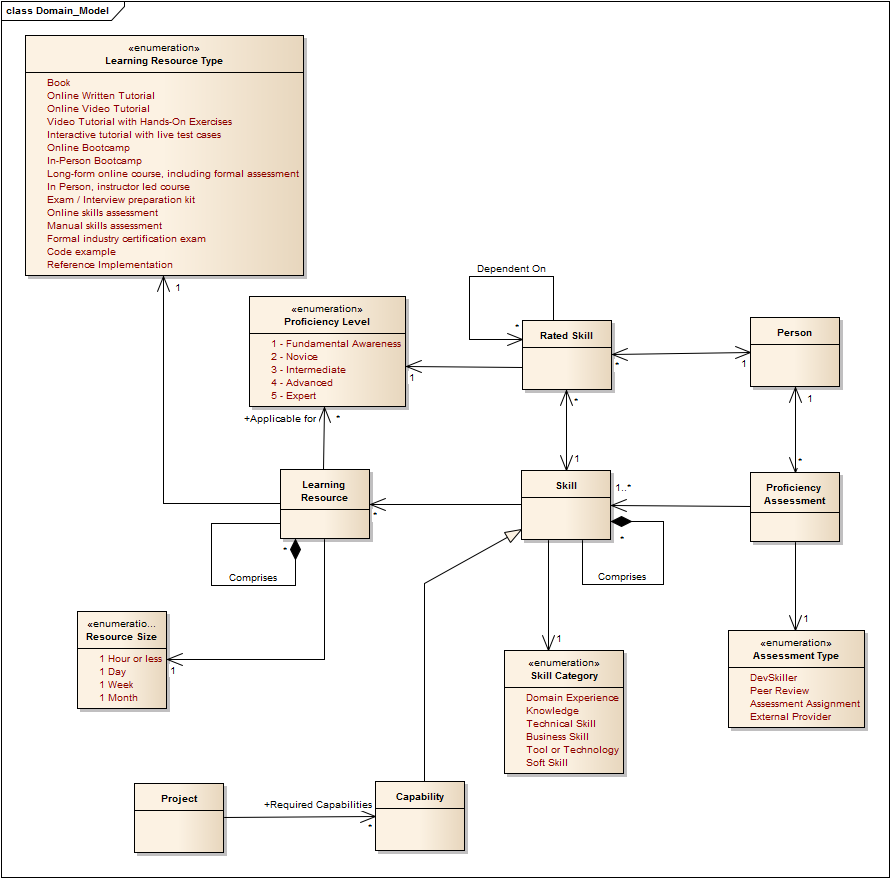
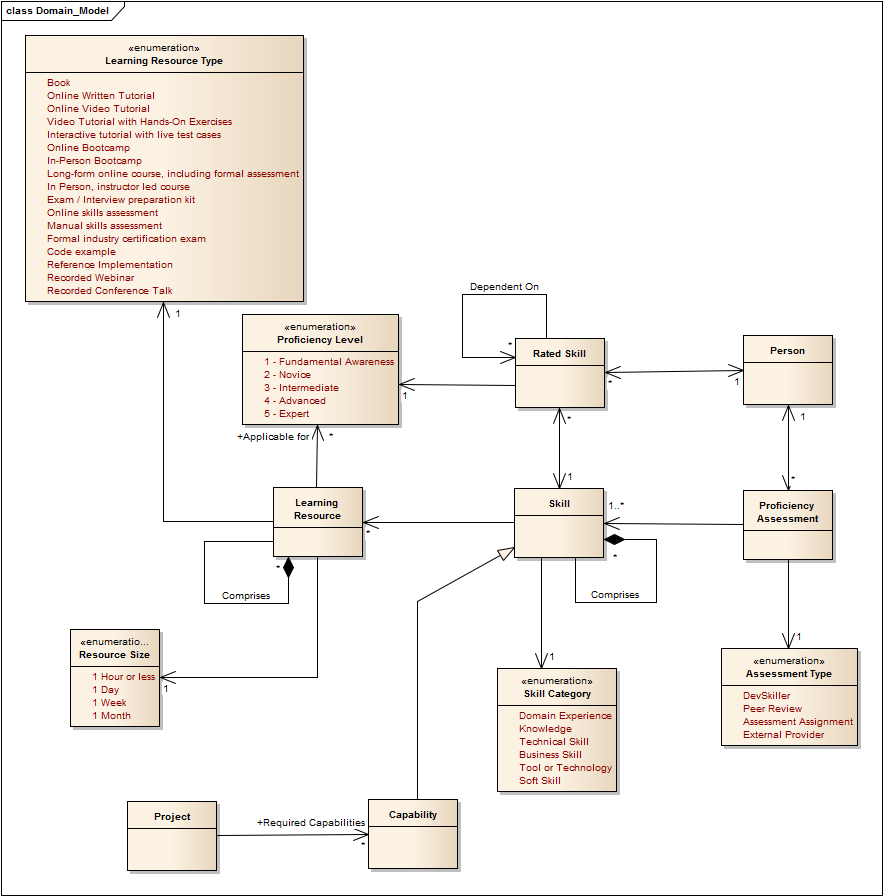
Adding some additional resource types

diff --git a/docs/searchindex.js b/docs/searchindex.js
@@ -1,1 +1,1 @@
-Search.setIndex({docnames:["index","learning_paths/analysis/uml","learning_paths/development/aem","learning_paths/development/html_css_js","learning_paths/index","learning_resources/bootcamps","learning_resources/content_providers","learning_resources/index","learning_resources/resource_types","skills_framework/domain_model","skills_framework/dsd_skills_framework","skills_framework/index","skills_framework/skills_tree","start_here"],envversion:{"sphinx.domains.c":1,"sphinx.domains.changeset":1,"sphinx.domains.cpp":1,"sphinx.domains.javascript":1,"sphinx.domains.math":2,"sphinx.domains.python":1,"sphinx.domains.rst":1,"sphinx.domains.std":1,sphinx:55},filenames:["index.rst","learning_paths/analysis/uml.rst","learning_paths/development/aem.rst","learning_paths/development/html_css_js.rst","learning_paths/index.rst","learning_resources/bootcamps.rst","learning_resources/content_providers.rst","learning_resources/index.rst","learning_resources/resource_types.rst","skills_framework/domain_model.rst","skills_framework/dsd_skills_framework.rst","skills_framework/index.rst","skills_framework/skills_tree.rst","start_here.rst"],objects:{},objnames:{},objtypes:{},terms:{"case":[8,12],"function":12,"import":10,"long":8,"return":12,AWS:12,Ads:12,Are:12,But:10,DBs:12,Not:12,TLS:12,The:[3,9,10,12],These:12,Use:12,Using:10,abil:10,accuraci:12,activ:12,activemq:12,actual:12,add:[3,12],adding:12,addit:12,addition:10,adjust:3,aem:[0,4,12],ajax:12,algoexpert:6,all:[3,9,12],allig:6,alwai:10,analysi:[0,4],analyt:12,angular:12,angularj:12,anim:12,ansibl:12,apach:12,apige:12,appacademi:5,appli:3,applic:10,ask:12,assess:[8,12],atom:12,attent:12,audit:12,autom:12,azur:12,back:12,backbon:12,background:3,bank:12,base:12,basic:[3,12],bdd:12,becom:12,belong:12,below:[9,10],benchmark:12,big:12,biotech:12,bitbucket:12,bitdegre:6,book:8,bootcamp:[0,3,7,8],bootstrap:12,bower:12,bracket:12,brainstorm:12,broken:12,browser:12,browserifi:12,budget:12,bui:3,build:12,busi:11,button:3,byteacademi:5,cach:12,calcul:12,can:12,canva:12,capabl:[3,10],card:3,casperj:12,cassandra:12,categori:12,catgoris:8,causal:12,certif:8,certifi:12,check:12,checkstyl:12,chef:12,circleci:12,clariti:12,classifi:12,closur:12,cockroach:12,code:[8,12],codecademi:6,coderhous:5,codeship:12,codework:5,collabor:12,collect:12,color:3,com:[3,5,6,12],come:8,compani:12,compar:12,compil:12,complex:3,compos:12,comprehens:12,comput:12,concept:9,configur:12,consid:10,contain:12,content:[0,4,7,11,12],control:12,cordova:12,core:12,corner:3,correl:12,cost:12,couchbas:12,cours:[3,8,12],crash:3,creat:3,credit:12,crescent:3,critic:12,css:[0,4,12],cucumb:12,current:12,data:[9,12],databas:12,date:3,db2:12,dba:12,decis:12,deduct:12,defin:[8,9,12],definit:[9,10],deliv:10,depend:12,depict:[9,10],descript:[3,12],design:3,detail:[10,12],determin:12,develop:[0,4],devskilldojo:10,diagnost:12,diagram:[9,10,12],dictionari:10,differ:8,digit:12,dimension:10,dissect:12,docker:12,document:[10,12],domain:[0,10,11],down:12,draft:12,droneci:12,drupal:12,dsd:[0,9,11],each:[3,9],earn:12,eclips:12,ecmascript:12,ecommerc:12,editor:12,educ:6,effect:9,egghead:6,elabor:9,elasticsearch:12,element:3,elixir:12,ember:12,end:12,enhanc:12,entri:12,environ:12,enzym:12,equat:10,error:12,estim:12,eugen:6,evalu:12,eventu:12,exam:8,exampl:8,exercis:8,exist:10,facebook:12,few:12,file:12,financi:12,flexbox:12,follow:[9,10,12],footer:3,form:8,formal:8,format:12,found:4,foundri:12,framework:[0,9,12],freecodecamp:[3,6],freemark:12,from:12,front:12,ftp:12,fulli:12,fundament:12,further:[9,10,12],gattl:12,gcp:12,gener:10,ghost:12,ghtmlcss:3,git:12,give:[10,12],glassari:[],glossari:11,googl:12,govern:12,graph:12,grespons:3,grid:12,group:12,growth:12,grunt:12,guid:10,guidelin:10,gulp:12,hackreactor:5,hand:8,hard:10,haskel:12,head:3,header:3,healthcar:12,heart:3,help:9,here:0,heroku:12,high:10,hover:3,how:9,howev:12,html5:3,html:[0,4,12],http:[3,5,6,12],httpd:12,imag:3,implement:8,impli:12,improv:12,induct:12,industri:[8,12],infrastrcutur:12,inspector:12,instagram:12,instructor:8,insur:12,integr:12,intellig:12,intellij:12,intent:10,interact:8,interpret:12,interview:8,introduct:3,inventori:12,invest:12,investig:12,ionic:12,item:[3,12],jackrabbit:12,jasmin:12,java:12,javascript:12,jcr:12,jenkin:12,jest:12,jmeter:12,journei:12,json:12,judgment:12,junk:12,just:12,kafka:12,karma:12,keep:12,kei:10,know:[],knowledg:[10,11],known:12,kubernet:12,lambda:12,laravel:12,last:3,later:12,learn:[0,8,12],led:8,less:12,level:10,link:3,linod:12,list:12,listen:12,live:8,load:12,logist:12,lot:12,lucen:12,magento:12,mailgun:12,make:12,manag:12,mani:[8,12],manufactur:12,map:12,materi:12,matrix:12,measur:12,media:12,menu:3,meso:12,messag:12,metamodel:9,meteor:12,method:10,metric:12,mine:12,mkyong:6,mobx:12,mocha:12,model:[0,10,11,12],mongo:12,monitor:12,moodl:12,moon:3,more:[3,10],most:12,move:12,mysql:12,name:12,need:12,neo4j:12,netbean:12,nginx:12,nodej:12,non:12,note:12,now:3,npm:12,oauth:12,obc:8,object:12,ocean:12,one:10,ongo:12,onion:12,onli:[8,12],onlin:8,ontolog:10,opencart:12,openshift:12,optim:12,oracl:12,oral:12,org:[3,6],orient:12,orientdb:12,osgi:12,other:9,packag:12,page:[3,8],part:8,path:[0,8],pattern:[3,10],pbc:8,peopl:10,perform:12,person:[8,10],php:12,pipelin:12,pivot:12,platform:12,poi:12,point:[10,12],polici:12,postcss:12,postgress:12,practic:4,pre:10,predict:12,prep:8,prescript:12,present:12,prevent:10,price:12,priorit:12,problem:12,processor:12,product:[6,10,12],profil:3,project:[4,10],properti:3,prototyp:12,provid:[0,3,7,9,10],puppet:12,purpos:10,python:12,qualit:12,qualiti:12,quantit:12,queri:12,question:12,rabbitmq:12,raci:12,rancher:12,rate:3,react:12,realli:12,reason:12,record:12,redi:12,redux:12,ref:12,refer:8,relat:[3,9,12],relationship:12,report:12,requir:12,research:12,resourc:[0,4,12],respons:[3,12],restructur:12,result:12,retail:12,rethinkdb:12,review:12,rhetor:12,right:3,roi:12,roughli:10,rubi:12,runner:12,ruond:3,rust:12,salt:12,sass:12,scala:12,scale:3,scenario:12,scheme:8,screen:3,scrimba:[3,6],script:12,search:12,second:12,secur:12,selenium:12,sendgrid:12,sensit:12,sentri:12,seo:12,separ:10,seren:12,serv:[9,10],server:12,serverless:12,servic:12,set:10,setup:12,shadow:3,shape:3,shell:12,should:12,sift:12,simpli:12,sitecor:12,skeleton:3,skill:[0,8,9],smallprint:3,social:12,soft:[10,11],solr:12,solv:12,some:12,someth:[10,12],sometim:12,sonar:12,sourc:12,spend:12,spring:12,sprinkl:12,sql:12,sqllite:12,ssh:12,stakehold:12,standardis:8,start:0,state:12,stori:12,strateg:12,strcutur:9,structur:[10,12],studio:12,stylu:12,subtl:3,subtyp:[],survei:12,swarm:12,swot:12,symphoni:12,system:12,take:12,task:12,teamwork:12,technic:11,technolog:[10,11],telecommun:12,termin:12,terraform:12,test:8,thebalancecar:12,thi:[8,10,12],thing:12,think:[10,12],through:12,titl:3,todo:[1,2,3,5,6,9,12,13],tone:3,tool:[10,11],tradit:12,transform:3,tree:[0,11],troubleshoot:12,tutori:8,twitter:12,type:[0,3,7,12],typescript:12,udemi:6,uml:[0,4,9],underli:10,underpin:9,understand:10,unit:12,updat:3,url:3,usag:12,use:[3,10],used:8,user:12,using:3,vagrant:12,veri:12,version:12,video:8,virtualbox:12,visual:[3,9,12],vmware:12,vto:8,vtwe:[3,8],vuej:12,web:[3,12],webpack:12,well:[9,12],when:12,whether:12,which:[9,12],wordpress:12,written:[8,12],www:[3,5,6,12],xml:12,xsd:12,xslt:12,yaml:12,yeoman:12,yet:12},titles:["Welcome to the DevSkillDojo KnowledgeBase","Learning Path :: Analysis : UML","Learning Path :: Development : AEM","Learning Path :: Development : HTML, CSS and JS","Learning Paths","Bootcamps","Content Providers","Learning Resources","Resource Types","Domain Model","DSD Skills Framework","Skills Framework","Skills Tree","Start Here"],titleterms:{aem:2,analysi:[1,12],api:12,aptitud:12,architectur:12,bootcamp:5,busi:12,cloud:12,commun:12,concept:12,content:6,creativ:12,css:3,deploy:12,design:12,develop:[2,3,12],devskilldojo:0,domain:[9,12],dsd:10,experi:12,financ:12,found:3,framework:[10,11],glossari:9,hardwar:12,here:13,html:3,infrastructur:12,instrument:12,knowledg:12,knowledgebas:0,languag:12,learn:[1,2,3,4,7],market:12,metamodel:[],method:12,model:9,path:[1,2,3,4],peopl:12,plan:12,practic:3,principl:12,process:12,project:3,provid:6,resourc:[3,7,8],sale:12,skill:[10,11,12],soft:12,softwar:12,standard:12,start:13,technic:12,technolog:12,test:12,tool:12,track:12,tree:12,type:8,uml:1,welcom:0}})
+Search.setIndex({docnames:["index","learning_paths/analysis/uml","learning_paths/development/aem","learning_paths/development/html_css_js","learning_paths/index","learning_resources/bootcamps","learning_resources/content_providers","learning_resources/index","learning_resources/resource_types","skills_framework/domain_model","skills_framework/dsd_skills_framework","skills_framework/index","skills_framework/skills_tree","start_here"],envversion:{"sphinx.domains.c":1,"sphinx.domains.changeset":1,"sphinx.domains.cpp":1,"sphinx.domains.javascript":1,"sphinx.domains.math":2,"sphinx.domains.python":1,"sphinx.domains.rst":1,"sphinx.domains.std":1,sphinx:55},filenames:["index.rst","learning_paths/analysis/uml.rst","learning_paths/development/aem.rst","learning_paths/development/html_css_js.rst","learning_paths/index.rst","learning_resources/bootcamps.rst","learning_resources/content_providers.rst","learning_resources/index.rst","learning_resources/resource_types.rst","skills_framework/domain_model.rst","skills_framework/dsd_skills_framework.rst","skills_framework/index.rst","skills_framework/skills_tree.rst","start_here.rst"],objects:{},objnames:{},objtypes:{},terms:{"case":[8,12],"function":12,"import":10,"long":8,"return":12,AWS:12,Ads:12,Are:12,But:10,DBs:12,Not:12,TLS:12,The:[3,9,10,12],These:12,Use:12,Using:10,abil:10,accuraci:12,activ:12,activemq:12,actual:12,add:[3,12],adding:12,addit:12,addition:10,adjust:3,aem:[0,4,12],ajax:12,algoexpert:6,all:[3,9,12],allig:6,alwai:10,analysi:[0,4],analyt:12,angular:12,angularj:12,anim:12,ansibl:12,apach:12,apige:12,appacademi:5,appli:3,applic:10,ask:12,assess:[8,12],atom:12,attent:12,audit:12,autom:12,azur:12,back:12,backbon:12,background:3,bank:12,base:12,basic:[3,12],bdd:12,becom:12,belong:12,below:[9,10],benchmark:12,big:12,biotech:12,bitbucket:12,bitdegre:6,book:8,bootcamp:[0,3,7,8],bootstrap:12,bower:12,bracket:12,brainstorm:12,broken:12,browser:12,browserifi:12,budget:12,bui:3,build:12,busi:11,button:3,byteacademi:5,cach:12,calcul:12,can:12,canva:12,capabl:[3,10],card:3,casperj:12,cassandra:12,categori:12,catgoris:8,causal:12,certif:8,certifi:12,check:12,checkstyl:12,chef:12,circleci:12,clariti:12,classifi:12,closur:12,cockroach:12,code:[8,12],codecademi:6,coderhous:5,codeship:12,codework:5,collabor:12,collect:12,color:3,com:[3,5,6,12],come:8,compani:12,compar:12,compil:12,complex:3,compos:12,comprehens:12,comput:12,concept:9,confer:8,configur:12,consid:10,contain:12,content:[0,4,7,11,12],control:12,cordova:12,core:12,corner:3,correl:12,cost:12,couchbas:12,cours:[3,8,12],crash:3,creat:3,credit:12,crescent:3,critic:12,css:[0,4,12],cucumb:12,current:12,data:[9,12],databas:12,date:[3,10],db2:12,dba:12,decis:12,deduct:12,defin:[8,9,12],definit:[9,10],deliv:10,depend:12,depict:[9,10],descript:[3,12],design:3,detail:[10,12],determin:12,develop:[0,4],devskilldojo:10,diagnost:12,diagram:[9,10,12],dictionari:10,differ:8,digit:12,dimension:10,dissect:12,docker:12,document:[10,12],domain:[0,10,11],down:12,draft:12,droneci:12,drupal:12,dsd:[0,9,11],each:[3,9],earn:12,eclips:12,ecmascript:12,ecommerc:12,editor:12,educ:6,effect:9,egghead:6,elabor:9,elasticsearch:12,element:3,elixir:12,ember:12,end:12,enhanc:12,entri:12,environ:12,enzym:12,equat:10,error:12,estim:12,eugen:6,evalu:12,eventu:12,exam:8,exampl:8,exercis:8,exist:10,facebook:12,few:12,file:12,financi:12,flexbox:12,follow:[9,10,12],footer:3,form:8,formal:8,format:12,found:4,foundri:12,framework:[0,9,12],freecodecamp:[3,6],freemark:12,from:12,front:12,ftp:12,fulli:12,fundament:12,further:[9,10,12],gattl:12,gcp:12,gener:10,ghost:12,ghtmlcss:3,git:12,give:[10,12],glassari:[],glossari:11,googl:12,govern:12,graph:12,grespons:3,grid:12,group:12,growth:12,grunt:12,guid:10,guidelin:10,gulp:12,hackreactor:5,hand:8,hard:10,haskel:12,head:3,header:3,healthcar:12,heart:3,help:9,here:0,heroku:12,high:10,hover:3,how:9,howev:12,html5:3,html:[0,4,12],http:[3,5,6,12],httpd:12,imag:3,implement:8,impli:12,improv:12,induct:12,industri:[8,12],infrastrcutur:12,inspector:12,instagram:12,instructor:8,insur:12,integr:12,intellig:12,intellij:12,intent:10,interact:8,interpret:12,interview:8,introduct:3,inventori:12,invest:12,investig:12,ionic:12,item:[3,12],jackrabbit:12,jasmin:12,java:12,javascript:12,jcr:12,jenkin:12,jest:12,jmeter:12,journei:12,json:12,judgment:12,junk:12,just:12,kafka:12,karma:12,keep:12,kei:10,know:[],knowledg:[10,11],known:12,kubernet:12,lambda:12,laravel:12,last:3,later:12,learn:[0,8,12],led:8,less:12,level:10,link:3,linod:12,list:12,listen:12,live:8,load:12,logist:12,lot:12,lucen:12,magento:12,mailgun:12,make:12,manag:12,mani:[8,12],manufactur:12,map:12,materi:12,matrix:12,measur:12,media:12,menu:3,meso:12,messag:12,metamodel:9,meteor:12,method:10,metric:12,mine:12,mkyong:6,mobx:12,mocha:12,model:[0,10,11,12],mongo:12,monitor:12,moodl:12,moon:3,more:[3,10],most:12,move:12,mysql:12,name:12,need:12,neo4j:12,netbean:12,nginx:12,nodej:12,non:12,note:12,now:3,npm:12,oauth:12,obc:8,object:12,ocean:12,one:10,ongo:12,onion:12,onli:[8,12],onlin:8,ontolog:10,opencart:12,openshift:12,optim:12,oracl:12,oral:12,org:[3,6],orient:12,orientdb:12,osgi:12,other:9,packag:12,page:[3,8],part:8,path:[0,8],pattern:[3,10],pbc:8,peopl:10,perform:12,person:[8,10],php:12,pipelin:12,pivot:12,platform:12,poi:12,point:[10,12],polici:12,postcss:12,postgress:12,practic:4,pre:10,predict:12,prep:8,prescript:12,present:12,prevent:10,price:12,priorit:12,problem:12,processor:12,product:[6,10,12],profil:3,project:[4,10],properti:3,prototyp:12,provid:[0,3,7,9,10],puppet:12,purpos:10,python:12,qualit:12,qualiti:12,quantit:12,queri:12,question:12,rabbitmq:12,raci:12,rancher:12,rate:3,react:12,realli:12,reason:12,record:[8,12],redi:12,redux:12,ref:12,refer:8,relat:[3,9,12],relationship:12,releas:10,report:12,requir:12,research:12,resourc:[0,4,12],respons:[3,12],restructur:12,result:12,retail:12,rethinkdb:12,review:12,rhetor:12,right:3,roi:12,roughli:10,rubi:12,runner:12,ruond:3,rust:12,salt:12,sass:12,scala:12,scale:3,scenario:12,scheme:8,screen:3,scrimba:[3,6],script:12,search:12,second:12,secur:12,selenium:12,sendgrid:12,sensit:12,sentri:12,seo:12,separ:10,seren:12,serv:[9,10],server:12,serverless:12,servic:12,set:10,setup:12,shadow:3,shape:3,shell:12,should:12,sift:12,simpli:12,sitecor:12,skeleton:3,skill:[0,8,9],smallprint:3,social:12,soft:[10,11],solr:12,solv:12,some:12,someth:[10,12],sometim:12,sonar:12,sourc:12,spend:12,spring:12,sprinkl:12,sql:12,sqllite:12,ssh:12,stakehold:12,standardis:8,start:0,state:12,stori:12,strateg:12,strcutur:9,structur:[10,12],studio:12,stylu:12,subtl:3,subtyp:[],survei:12,swarm:12,swot:12,symphoni:12,system:12,take:12,talk:8,task:12,teamwork:12,technic:11,technolog:[10,11],telecommun:12,termin:12,terraform:12,test:8,thebalancecar:12,thi:[8,10,12],thing:12,think:[10,12],through:12,titl:3,todo:[1,2,3,5,6,9,12,13],tone:3,tool:[10,11],tradit:12,transform:3,tree:[0,11],troubleshoot:12,tutori:8,twitter:12,type:[0,3,7,12],typescript:12,udemi:6,uml:[0,4,9],underli:10,underpin:9,understand:10,unit:12,updat:3,url:3,usag:12,use:[3,10],used:8,user:12,using:3,vagrant:12,veri:12,version:[10,12],video:8,virtualbox:12,visual:[3,9,12],vmware:12,vto:8,vtwe:[3,8],vuej:12,web:[3,12],webinar:8,webpack:12,well:[9,12],when:12,whether:12,which:[9,12],wordpress:12,written:[8,12],www:[3,5,6,12],xml:12,xsd:12,xslt:12,yaml:12,yeoman:12,yet:12},titles:["Welcome to the DevSkillDojo KnowledgeBase","Learning Path :: Analysis : UML","Learning Path :: Development : AEM","Learning Path :: Development : HTML, CSS and JS","Learning Paths","Bootcamps","Content Providers","Learning Resources","Resource Types","Domain Model","DSD Skills Framework","Skills Framework","Skills Tree","Start Here"],titleterms:{aem:2,analysi:[1,12],api:12,aptitud:12,architectur:12,bootcamp:5,busi:12,cloud:12,commun:12,concept:12,content:6,creativ:12,css:3,deploy:12,design:12,develop:[2,3,12],devskilldojo:0,domain:[9,12],dsd:10,experi:12,financ:12,found:3,framework:[10,11],glossari:9,hardwar:12,here:13,html:3,infrastructur:12,instrument:12,knowledg:12,knowledgebas:0,languag:12,learn:[1,2,3,4,7],market:12,metamodel:[],method:12,model:9,path:[1,2,3,4],peopl:12,plan:12,practic:3,principl:12,process:12,project:3,provid:6,resourc:[3,7,8],sale:12,skill:[10,11,12],soft:12,softwar:12,standard:12,start:13,technic:12,technolog:12,test:12,tool:12,track:12,tree:12,type:8,uml:1,welcom:0}})

diff --git a/docs/skills_framework/dsd_skills_framework.html b/docs/skills_framework/dsd_skills_framework.html
@@ -158,6 +158,8 @@
             
   <div class="section" id="dsd-skills-framework">
 <span id="id1"></span><h1>DSD Skills Framework<a class="headerlink" href="#dsd-skills-framework" title="Permalink to this headline">¶</a></h1>
+<p>Date Release: 2020-03-02
+Version: 0.0.1</p>
 <p>The diagram below provides a high level depiction of the DevSkillDojo Skills Framework. The intention of this framework is to provide
 a considered method for structuring skills. Additionally, the framework serves as a guideline to prevent one-dimensional thinking
 w.r.t. skills, i.e. always equating skills with technologies.</p>

diff --git a/docs/learning_resources/resource_types.html b/docs/learning_resources/resource_types.html
@@ -214,10 +214,10 @@ for learning types. This scheme will then be used as part of the learning paths.
 <td>Reference Implementation</td>
 </tr>
 <tr class="row-even"><td>&#160;</td>
-<td>&#160;</td>
+<td>Recorded Webinar</td>
 </tr>
 <tr class="row-odd"><td>&#160;</td>
-<td>&#160;</td>
+<td>Recorded Conference Talk</td>
 </tr>
 <tr class="row-even"><td>&#160;</td>
 <td>&#160;</td>

diff --git a/source/learning_resources/resource_types.rst b/source/learning_resources/resource_types.rst
@@ -37,9 +37,9 @@ for learning types. This scheme will then be used as part of the learning paths.
 +------+-------------------------------------------+
 |      | Reference Implementation                  |
 +------+-------------------------------------------+
-|      |                                           |
+|      | Recorded Webinar                          |
 +------+-------------------------------------------+
-|      |                                           |
+|      | Recorded Conference Talk                  |
 +------+-------------------------------------------+
 |      |                                           |
 +------+-------------------------------------------+

diff --git a/source/skills_framework/dsd_skills_framework.rst b/source/skills_framework/dsd_skills_framework.rst
@@ -3,6 +3,9 @@
 DSD Skills Framework
 ====================
 
+Date Release: 2020-03-02
+Version: 0.0.1
+
 The diagram below provides a high level depiction of the DevSkillDojo Skills Framework. The intention of this framework is to provide
 a considered method for structuring skills. Additionally, the framework serves as a guideline to prevent one-dimensional thinking
 w.r.t. skills, i.e. always equating skills with technologies.
